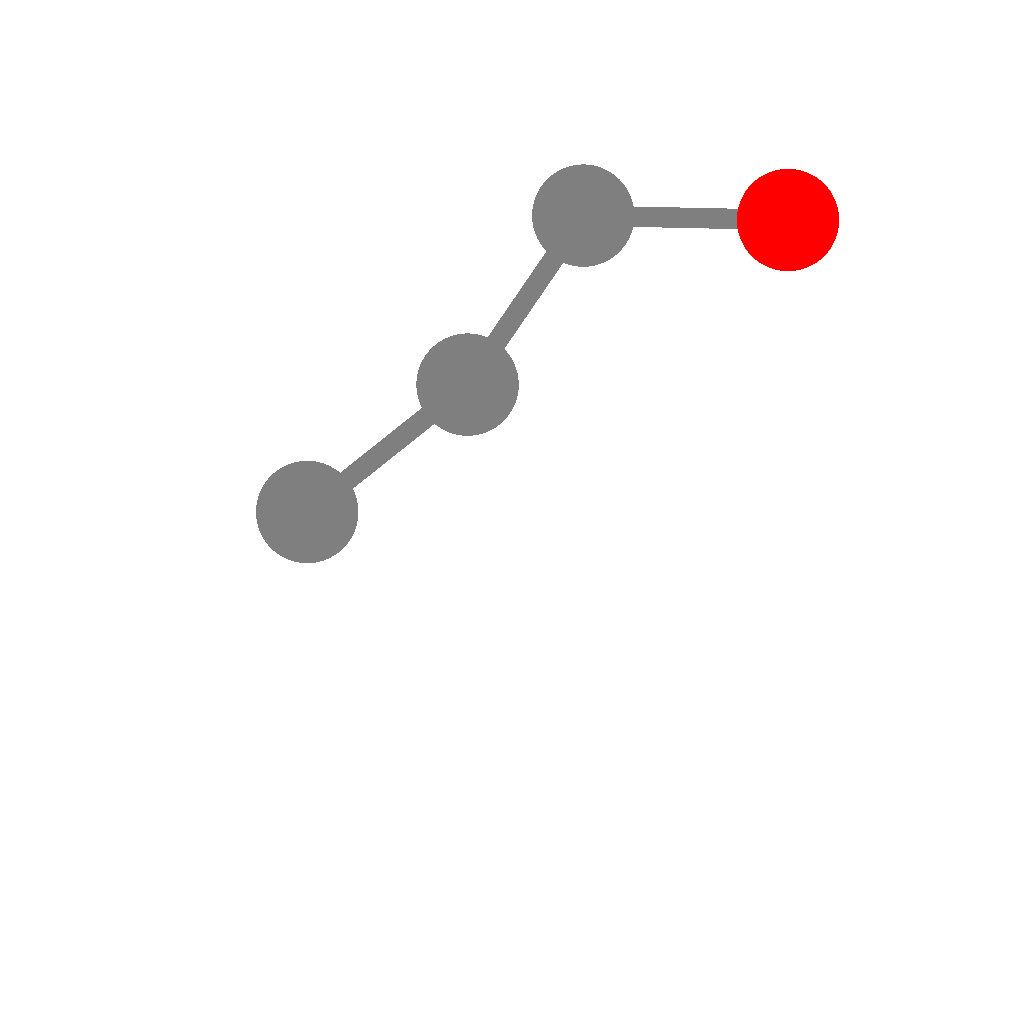
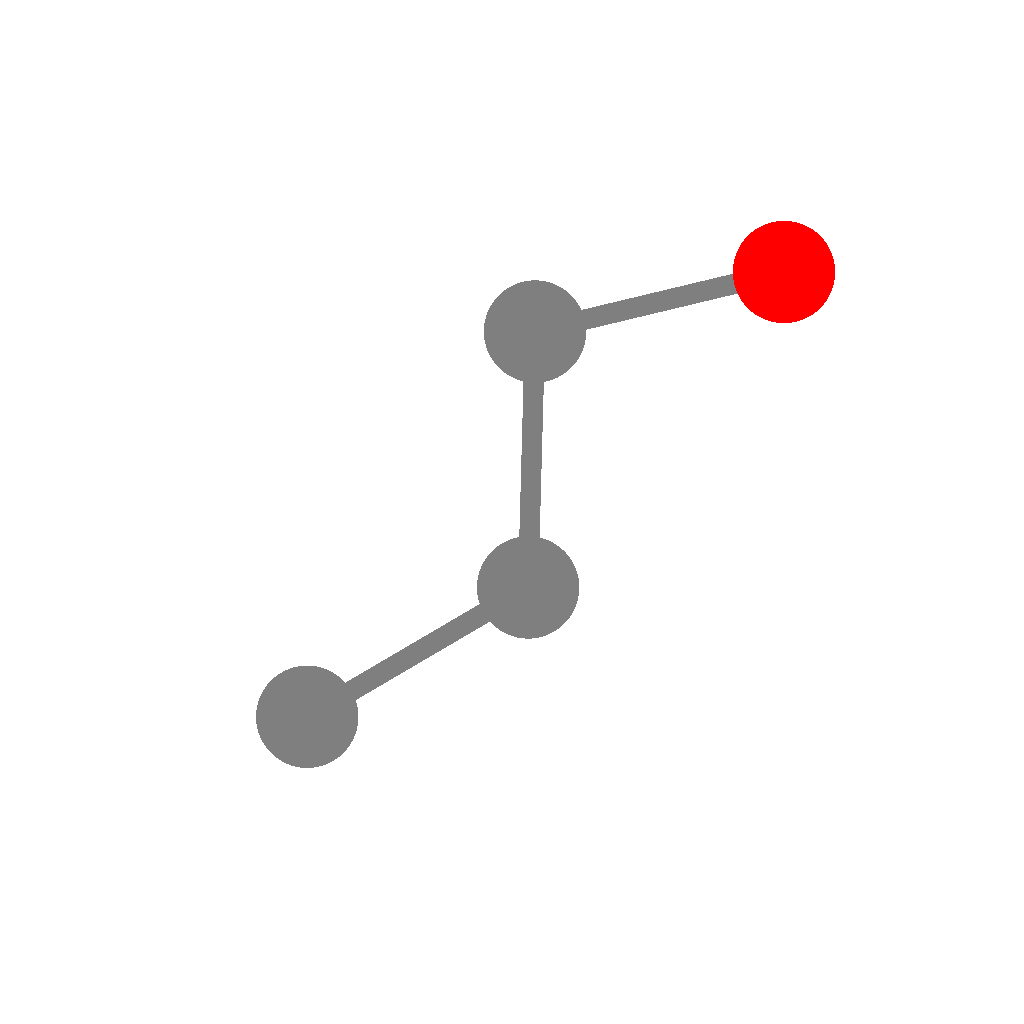
update ik image

Changed region(s): [[0.25, 0.1562, 0.8438, 0.75]]

diff --git a/inverse_kinematics.py b/inverse_kinematics.py
@@ -28,12 +28,12 @@ if __name__ == '__main__':
     canvas = window.get_canvas()
     canvas.set_background_color((1, 1, 1))
 
-    length = 0.2
+    length = 0.25
     num_joints = 4
     radius = 0.05
     joints = ti.Vector.field(2, dtype=float, shape=num_joints)
     angles = ti.field(dtype=float, shape=num_joints - 1)
-    joints[0] = (0.3, 0.5)
+    joints[0] = (0.3, 0.3)
 
     joints_indices = ti.field(dtype=int, shape=(num_joints - 1) * 2)
     for i in range(num_joints):
